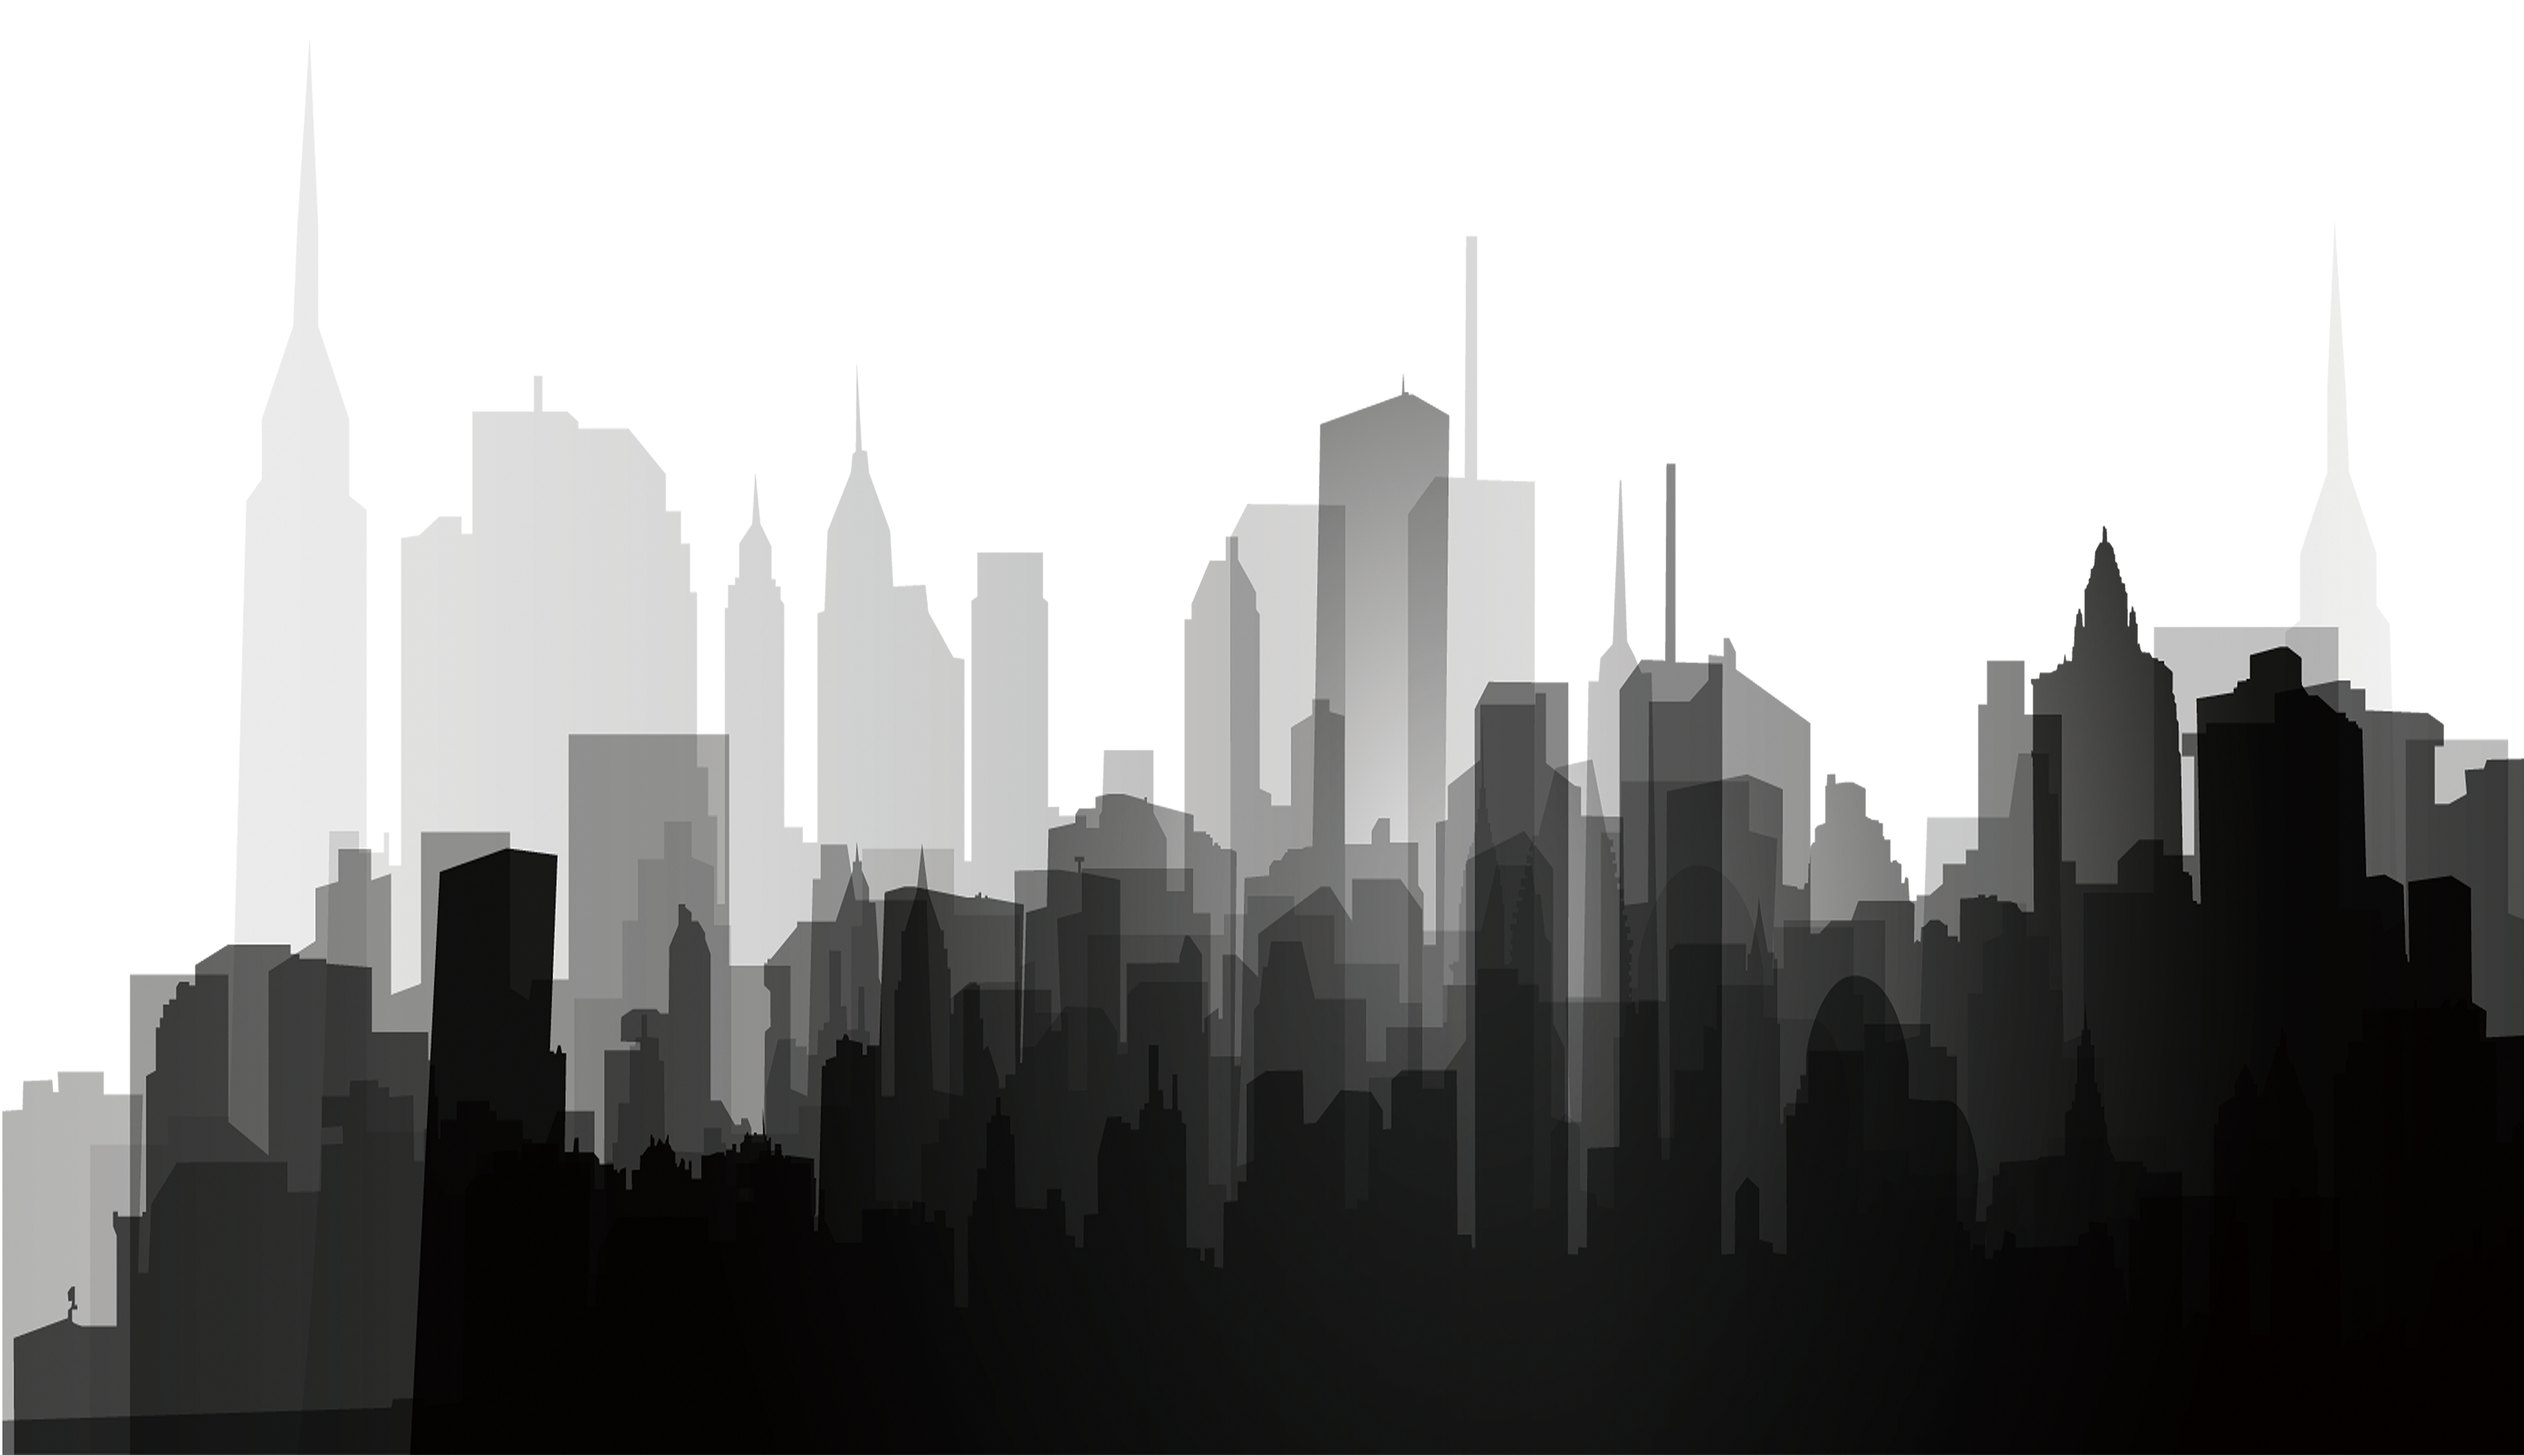
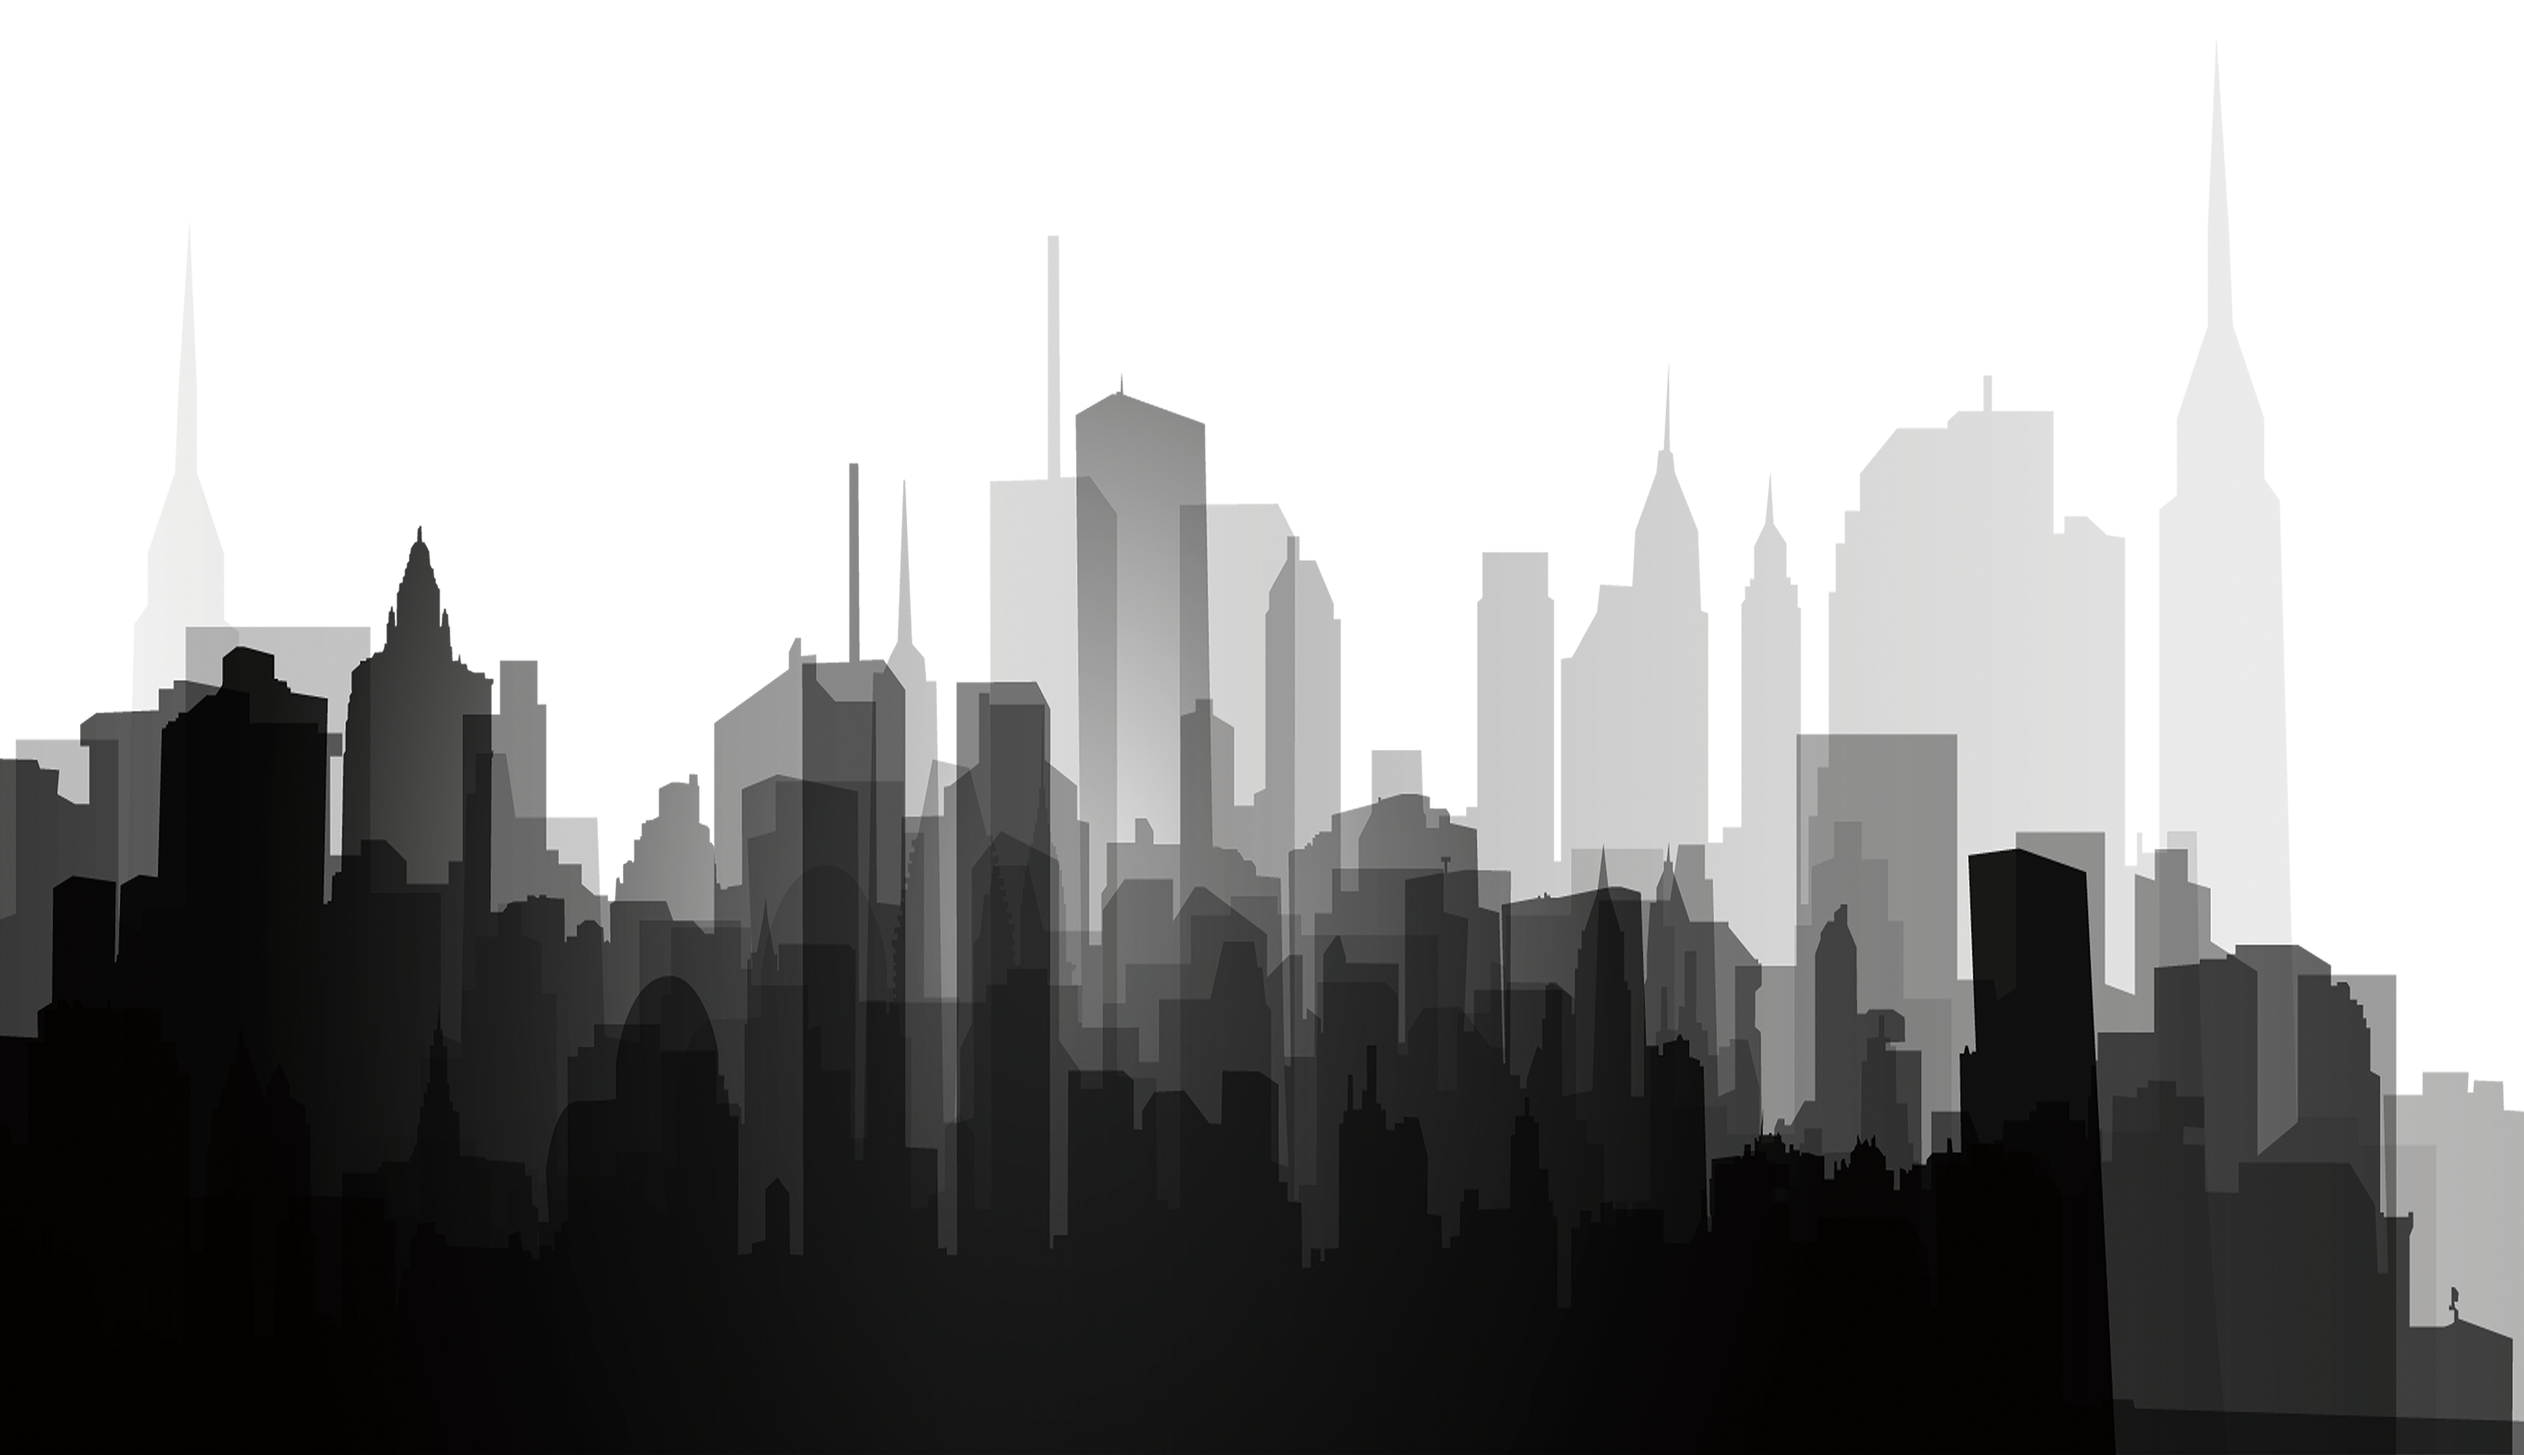
Add Profil

diff --git a/assets/profile.scss b/assets/profile.scss
@@ -1,57 +1,93 @@
-@import url('https://fonts.googleapis.com/css2?family=Jua&display=swap');
+@import url('https://fonts.googleapis.com/css2?family=Do+Hyeon&display=swap');
 
 .fullfile{
-  border: 3px solid black;
-  width: 360px;
-  font-family: 'Jua', sans-serif;
+//  border: 3px solid black;
+  width: 430px;
+  font-family: 'Do Hyeon', sans-serif;
   font-size: 20px;
+
 
   .profilebox{
     border: 3px solid black;
-    width: 351px;
+    width: 430px;
     display: flex;
     flex-wrap: wrap;
     background-image: url("@/assets/pageimg/city.png");
-    background-size: cover;
-    background-position: center;
+    background-size: 485px 350px;
+    background-position: bottom;
+    background-repeat: no-repeat;
 //    background-color: black;
-    color: white;
 
     .profile1{
-      border: 3px solid black;
-      width: 100px;
+//      border: 3px solid black;
+      width: 120px;
       height: 100px;
       text-align: center;
       margin: auto;
-      float: left;
 
     .profileimg{
-      width: 100%;
-      height: 100%;
-      border-radius: 100%;
-      border: 3px solid black;
-
+      width: 100px;
+      height: 100px;
+      margin: 10px;
+      background-color: white;
+      border: 3px solid rgb(255, 255, 255);
     }
 
     }
 
     .profile2{
-      border: 3px solid black;
-      width: 245px;
-      height: 100px;
-      margin: auto;
+//      border: 3px solid black;
+      width: 270px;
+      height: 150px;
+      margin: 0 auto;
+      display: flex;
+      flex-wrap: wrap;
+      text-align: center;
+      justify-content: right;
 
+      .userlink{
+        width: 80px;
+        height: 30px;
+        line-height: 30px;
+        text-align: center;
+        margin: 14px 10px 0 0;
+        font-size: 15px;
+        border-radius: 5px;
+        background-color: black;
+        color: white;
+        border: 2px solid rgb(131, 131, 131)
 
-      .levelbar{
-        border: 3px solid black;
       }
+
+      .username{
+        width: 100%;
+        font-size: 30px;
+        height: 30px;
+        line-height: 24px;
+        text-align: left;
+        margin: 10px 0 0 20px;
+        color: white;
+      }
+
+      .usertext{
+        width: 100%;
+        height: 20px;
+        line-height: 10px;
+        text-align: left;
+        margin: 0 0 20px 20px;
+        color: white;
+      }
+
+
     }
 
     .profile3{
-      border: 3px solid black;
+//      border: 3px solid black;
       width: 100%;
       height: 50px;
       margin: auto;
+      color: white;
+      font-size: 25px;
 
       .profilebutton{
         width: 30%;
@@ -62,6 +98,12 @@
           text-decoration: none;
           color: white;
         }
+
+        &:hover{
+          animation: buttonline 0.5s;
+          animation-fill-mode: forwards;
+        }
+
       }
     }
 
@@ -69,14 +111,23 @@
 
 
   .profile4{
-    width: 351px;
+    width: 430px;
     height: 335px;
     border: 3px solid black;
   }
 
   .profile5{
-    width: 351px;
+    width: 430px;
     height: 335px;
     border: 3px solid black;
   }
 }
+
+@keyframes buttonline{
+  0%{
+    border-bottom: 3px solid rgb(0, 0, 0);
+  }
+  100%{
+    border-bottom: 3px solid white;
+  }
+  }

diff --git a/assets/header.scss b/assets/header.scss
@@ -16,7 +16,6 @@
     position: absolute;
     left: 75px;
     top: 10px;
-    position: absolute;
     z-index: 11;
   }
 
@@ -34,7 +33,6 @@
         padding-left: 300px;
         height: 100px;
         font-weight: bold;
-        position: absolute;
         z-index: 10;
         background-color: black;
 
@@ -75,6 +73,7 @@
             position: absolute;
             background-color: #fff;
           }
+
           .buttonline2{
             width: 4px;
             height: 25px;
@@ -83,6 +82,7 @@
             position: absolute;
             background-color: #fff;
           }
+
           .buttonline3{
             width: 30px;
             height: 3px;
@@ -91,6 +91,7 @@
             position: absolute;
             background-color: #fff;
           }
+
           .buttonline4{
             width: 3px;
             height: 25px;
@@ -99,7 +100,6 @@
             position: absolute;
             background-color: #fff;
           }
-
 
           &:hover{
             .gogame{

diff --git a/components/profile.vue b/components/profile.vue
@@ -8,9 +8,10 @@
     </div>
 
     <div class="profile2">
-      <button>로그아웃</button>
-      <p>Lv.30 Mirai님</p>
-      <p>덤벼라마!</p>
+      <button class="userlink">로그아웃</button>
+      <button class="userlink">My페이지</button>
+      <p class="username">Lv.30 Mirai님</p>
+      <p class="usertext">Mirai1412/Capstone-Front</p>
     </div>
 
     <div class="profile3">

diff --git a/pages/index.vue b/pages/index.vue
@@ -30,7 +30,7 @@ export default {
 .testbox{
   width: 100%;
   text-align: center;
-  height: 100%;
+  height: 1000px;
   border: 3px solid black;
   margin-top: 100px;
 }
